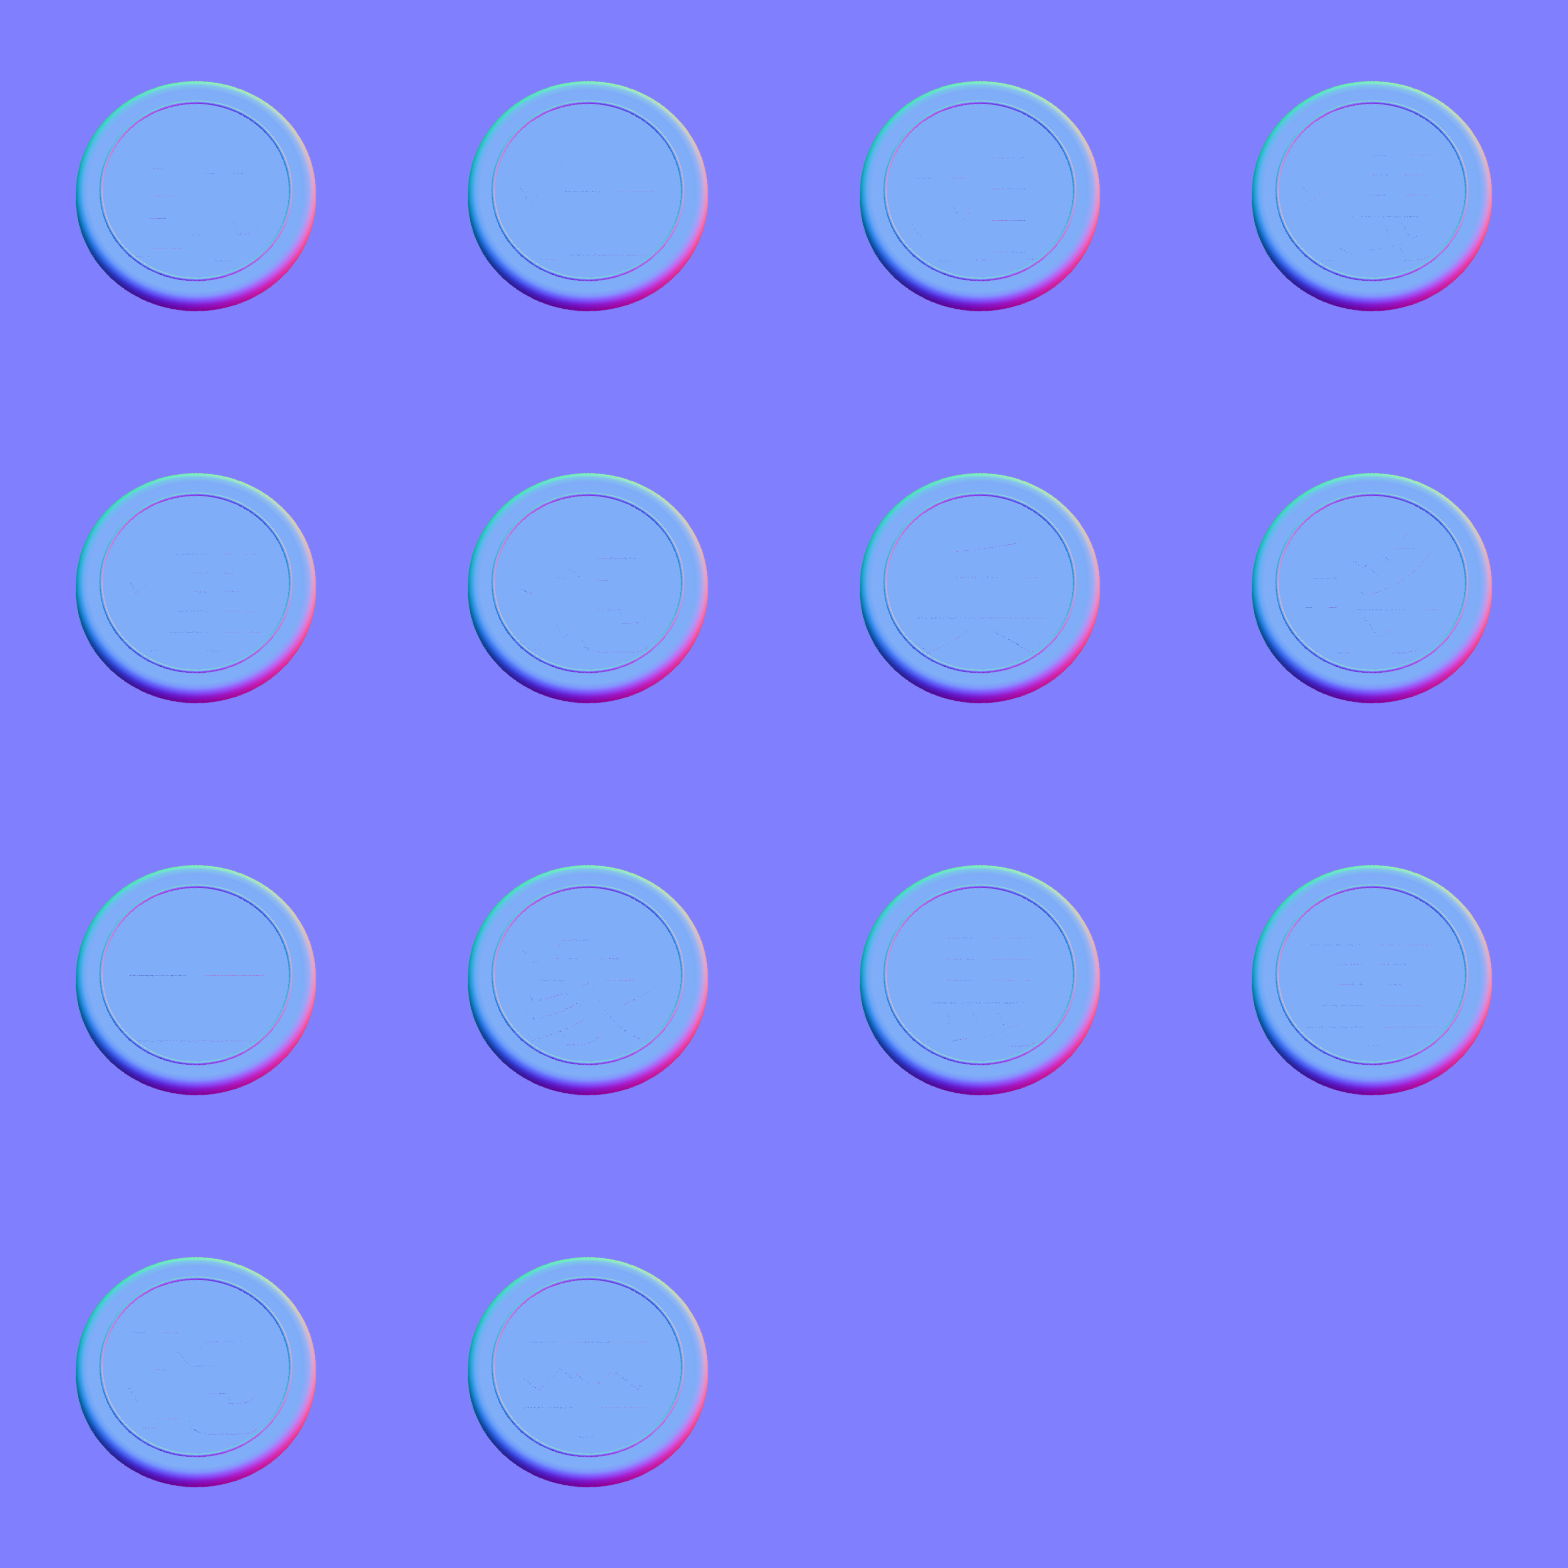
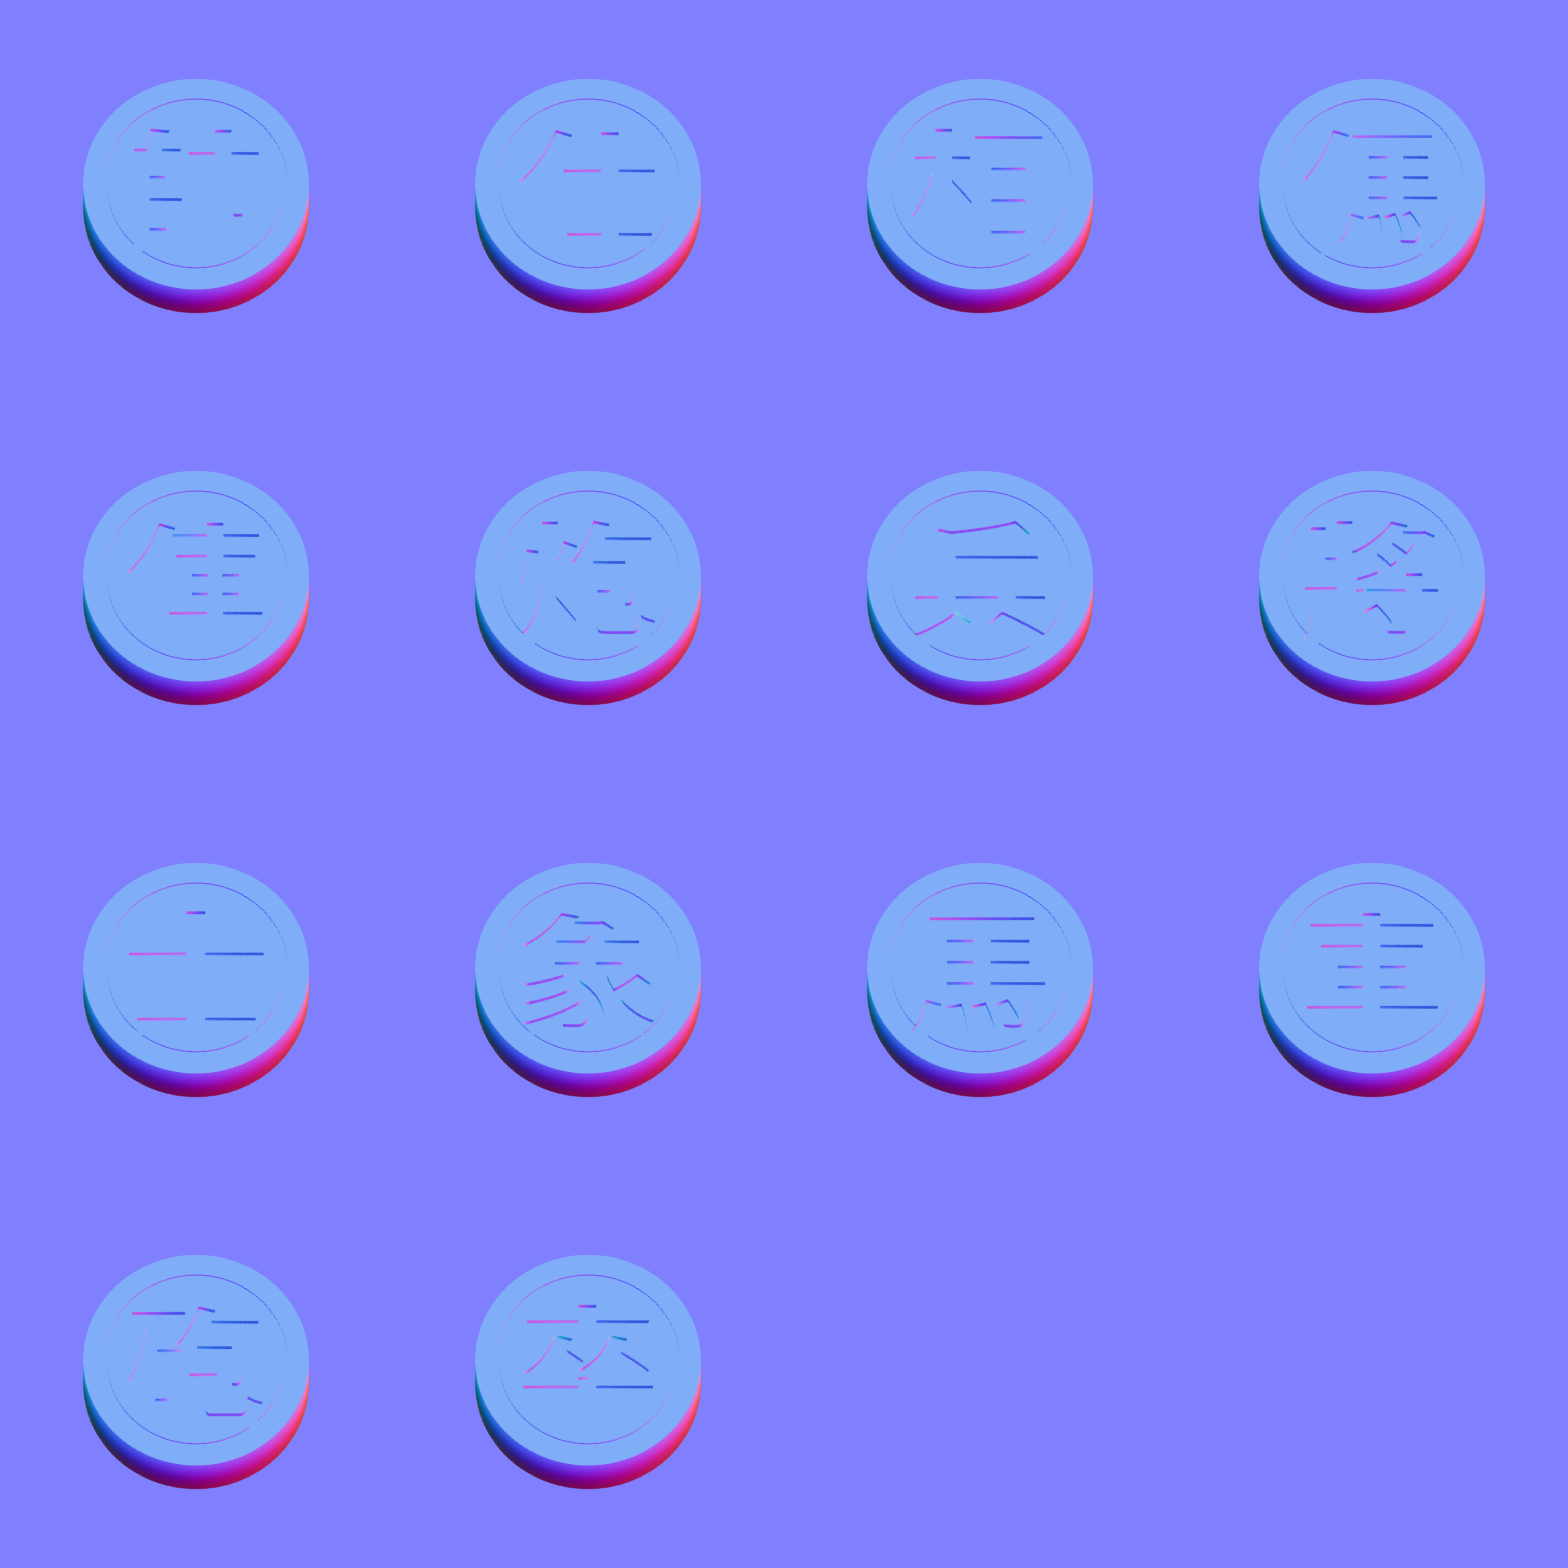
fix(xiangqi): deepen engraved pieces and add themed action buttons

diff --git a/games/xiangqi/src/scenes/XiangqiView.ts b/games/xiangqi/src/scenes/XiangqiView.ts
@@ -173,14 +173,19 @@ export class XiangqiView extends GameView<View, Options> {
         this.label('', { size: 24, color: '#cab79a' }).setStroke('#211a14', 2),
       ),
     };
-    const opts = { image: 'button', size: 28 };
+    const slice: [number, number, number, number] = [80, 80, 80, 80];
+    const opts = { image: 'button-draw', size: 28, slice };
     this.buttons = {
       draw: this.button('Xin hoà', () => this.send('offer-draw'), opts),
       decline: this.button('Từ chối', () => this.send('decline-draw'), opts),
-      resign: this.button('Đầu hàng', () => this.resign(), opts),
+      resign: this.button('Đầu hàng', () => this.resign(), { ...opts, image: 'button-resign' }),
       result: this.button('Kết quả', () => this.showPanel(false), opts),
       effects: this.button('Hiệu ứng: Bật', () => this.toggleEffects(), { size: 24 }),
     };
+    for (const button of [this.buttons.draw, this.buttons.decline, this.buttons.result]) {
+      button.label.setColor('#5c2d12').setStroke('#efe2c4', 1);
+    }
+    this.buttons.resign.label.setColor('#f6e8cd').setStroke('#451510', 2);
     this.buttons.effects.label.setColor('#cab79a').setStroke('#211a14', 2);
     const close = this.button(
       'Xem bàn cờ',
@@ -190,6 +195,7 @@ export class XiangqiView extends GameView<View, Options> {
       },
       opts,
     );
+    close.label.setColor('#5c2d12').setStroke('#efe2c4', 1);
     this.panel = new ResultPanel(this, close, DEPTH.panel);
     this.makeDustTexture();
   }

diff --git a/games/xiangqi/src/scenes/theme.ts b/games/xiangqi/src/scenes/theme.ts
@@ -1,11 +1,11 @@
 /**
- * Look and words shared by the scenes. Piece images are renders (colored characters and all):
+ * Look and words shared by the scenes. Piece images are renders with recessed colored glyphs:
  * assets/pieces.webp + pieces.normal.webp, the disc centered, DISC of the frame wide.
  */
 import type { EndReason, Kind, Side } from '../game/model.js';
 
-/** The disc's width as a share of its image (the rest is room for its bevel and animations). */
-export const DISC = 0.625;
+/** The sharp disc's diameter (1.88) as a share of the orthographic canvas width (3.2). */
+export const DISC = 0.5875;
 
 /**
  * assets/board.webp (generated, sources/prompts.json): a 900 × 1000 design rectangle with
@@ -20,8 +20,8 @@ export const BOARD = {
   y0: 77,
   dx: 94,
   dy: 94,
-  lift: 0.048,
-  disc: 0.96,
+  lift: 0.1,
+  disc: 0.9,
 };
 
 /** Hover slightly warms the ivory already baked into the material. */

diff --git a/games/xiangqi/sources/render_pieces.py b/games/xiangqi/sources/render_pieces.py
@@ -9,6 +9,7 @@ import os
 import sys
 
 import bpy
+import bmesh
 
 sys.path.insert(0, str(Path(__file__).resolve().parents[3] / 'tools' / 'blender'))
 from psc_bake import atlas, lathe, material, render, setup
@@ -23,7 +24,7 @@ FONT = Path(os.environ.get('PSC_XIANGQI_FONT', '/usr/share/fonts/opentype/noto/N
 
 
 def glyph(character, font, mat, z, extrusion):
-    curve = bpy.data.curves.new('Colored character inlay', 'FONT')
+    curve = bpy.data.curves.new('Engraving cutter', 'FONT')
     curve.body, curve.font = character, font
     curve.align_x, curve.align_y = 'CENTER', 'CENTER'
     curve.size, curve.extrude, curve.resolution_u = 1.1, extrusion, 8
@@ -38,6 +39,52 @@ def glyph(character, font, mat, z, extrusion):
     return obj
 
 
+def annulus(name, inner, outer, bottom, top, mat, segments=128):
+    profile = ((bottom, inner), (bottom, outer), (top, outer), (top, inner))
+    vertices = [(r * math.cos(i * math.tau / segments), r * math.sin(i * math.tau / segments), z)
+                for z, r in profile for i in range(segments)]
+    faces = []
+    for ring in range(4):
+        next_ring = (ring + 1) % 4
+        for i in range(segments):
+            j = (i + 1) % segments
+            faces.append((ring * segments + i, ring * segments + j,
+                          next_ring * segments + j, next_ring * segments + i))
+    mesh = bpy.data.meshes.new(name)
+    mesh.from_pydata(vertices, [], faces)
+    mesh.update()
+    obj = bpy.data.objects.new(name, mesh)
+    bpy.context.collection.objects.link(obj)
+    obj.data.materials.append(mat)
+    for i, polygon in enumerate(mesh.polygons):
+        polygon.use_smooth = (i // segments) % 2 == 1
+    return obj
+
+
+def engrave(body, cutter):
+    bpy.ops.object.select_all(action='DESELECT')
+    cutter.select_set(True)
+    bpy.context.view_layer.objects.active = cutter
+    if cutter.type != 'MESH':
+        bpy.ops.object.convert(target='MESH')
+        cutter = bpy.context.object
+    bpy.ops.object.transform_apply(location=False, rotation=False, scale=True)
+    # CJK glyphs contain touching/overlapping strokes: weld and orient the solid cutter,
+    # then use Exact's self-intersection support rather than leaving inverted cut faces.
+    mesh = bmesh.new()
+    mesh.from_mesh(cutter.data)
+    bmesh.ops.remove_doubles(mesh, verts=list(mesh.verts), dist=1e-5)
+    bmesh.ops.recalc_face_normals(mesh, faces=list(mesh.faces))
+    mesh.to_mesh(cutter.data)
+    mesh.free()
+    mod = body.modifiers.new('Recessed engraving', 'BOOLEAN')
+    mod.operation, mod.solver, mod.object = 'DIFFERENCE', 'EXACT', cutter
+    mod.use_self = True
+    bpy.context.view_layer.objects.active = body
+    bpy.ops.object.modifier_apply(modifier=mod.name)
+    bpy.data.objects.remove(cutter, do_unlink=True)
+
+
 if not SELECTED or 'pieces' in SELECTED or any(name in FRAMES for name in SELECTED):
     if not FONT.is_file():
         raise FileNotFoundError('Install Noto Sans CJK Bold or set PSC_XIANGQI_FONT to a CJK font')
@@ -48,20 +95,18 @@ if not SELECTED or 'pieces' in SELECTED or any(name in FRAMES for name in SELECT
             if SELECTED and 'pieces' not in SELECTED and name not in SELECTED and all(
                     (OUT / f'{name}{suffix}.png').exists() for suffix in ('', '.normal')):
                 continue
-            setup((384, 384), 3.2, target=(0, 0, 0.13), camera=(0, -4.5, 12), samples=32)
+            setup((384, 384), 3.2, target=(0, 0, 0.275), camera=(0, -4.5, 12), samples=32)
             ivory = material('Warm ivory satin stone', (0.78, 0.64, 0.36), 0.48, 0.08)
             ink = material('Red cinnabar' if side == 'red' else 'Charcoal ink',
                            (0.48, 0.018, 0.012) if side == 'red' else (0.025, 0.023, 0.021), 0.65, 0)
-            lathe('Bevelled ivory disc', [(0, 0.92), (0.025, 0.98), (0.06, 1),
-                         (0.19, 1), (0.235, 0.98), (0.255, 0.94), (0.25, 0.89)], ivory)
-            bpy.ops.mesh.primitive_torus_add(major_radius=0.79, minor_radius=0.014,
-                                            major_segments=96, minor_segments=12,
-                                            location=(0, 0, 0.252))
-            ring = bpy.context.object
-            ring.name = 'Inset colored ring'
-            ring.data.materials.append(ink)
-            # A thin colored inlay avoids Boolean artifacts in overlapping CJK strokes.
-            glyph(character, font, ink, 0.252, 0.001)
+            body = lathe('Thick ivory disc with sharp rims', [(0, 0.94), (0.55, 0.94)],
+                         ivory, segments=128)
+            engrave(body, glyph(character, font, ivory, 0.625, 0.14))
+            engrave(body, annulus('Ring groove cutter', 0.742, 0.764, 0.525, 0.65, ivory))
+            # The color is entirely below the face: ivory walls and real cavity normals
+            # catch the dynamic light while the flat ink floor remains easy to read.
+            lathe('Ink at the bottom of the lettering', [(0.486, 0.87), (0.487, 0.87)], ink)
+            annulus('Ink at the bottom of the ring', 0.742, 0.764, 0.526, 0.527, ink)
             render(name, OUT, OUT, normal=True, webp=False)
     atlas('pieces', FRAMES, ROOT / 'assets', OUT)
 
@@ -73,7 +118,7 @@ if not SELECTED or 'piece-shadow' in SELECTED:
     pixels = image.load()
     for y in range(size):
         for x in range(size):
-            radius = math.hypot((x - size / 2) / 122, (y - size / 2 - 7) / 110)
+            radius = math.hypot((x - size / 2) / 115, (y - size / 2 - 16) / 104)
             alpha = int(65 * max(0, min(1, (1.08 - radius) / 0.18)))
             pixels[x, y] = (38, 25, 12, alpha)
     image.save(ROOT / 'assets' / 'piece-shadow.webp', lossless=True, method=6)

diff --git a/games/xiangqi/sources/render_buttons.py b/games/xiangqi/sources/render_buttons.py
@@ -1,0 +1,49 @@
+"""Bake parchment and red-lacquer xiangqi buttons with walnut frames for nine-slice UI.
+
+Run: npm run blender -- xiangqi button-draw button-resign.
+Text stays in Phaser so offer/accept draw and surrender confirmation share the same assets.
+"""
+from pathlib import Path
+import sys
+
+import bpy
+
+sys.path.insert(0, str(Path(__file__).resolve().parents[3] / 'tools' / 'blender'))
+from psc_bake import cube, material, render, setup, wood
+
+ROOT = Path(__file__).resolve().parents[1]
+OUT = ROOT.parents[1] / '.blender' / 'xiangqi'
+SELECTED = sys.argv[sys.argv.index('--') + 1:] if '--' in sys.argv else []
+
+for name in ('button-draw', 'button-resign'):
+    if SELECTED and name not in SELECTED:
+        continue
+    setup((640, 200), 4.16, samples=32)
+    frame = wood('Walnut button frame', (0.065, 0.023, 0.011), (0.21, 0.078, 0.026))
+    brass = material('Aged brass hairline', (0.49, 0.29, 0.08), 0.65, 0)
+    if name == 'button-draw':
+        face = material('Warm parchment', (0.78, 0.68, 0.48), 0.9, 0)
+        shader = face.node_tree.nodes.get('Principled BSDF')
+        shader.inputs['Specular IOR Level'].default_value = 0.08
+        nodes, links = face.node_tree.nodes, face.node_tree.links
+        grain = nodes.new('ShaderNodeTexNoise')
+        grain.inputs['Scale'].default_value = 90
+        grain.inputs['Detail'].default_value = 2
+        bump = nodes.new('ShaderNodeBump')
+        bump.inputs['Strength'].default_value = 0.15
+        bump.inputs['Distance'].default_value = 0.005
+        links.new(grain.outputs['Fac'], bump.inputs['Height'])
+        links.new(bump.outputs['Normal'], shader.inputs['Normal'])
+    else:
+        face = material('Deep cinnabar lacquer', (0.23, 0.017, 0.012), 0.55, 0.09)
+    cube('Walnut frame', (3.96, 1.13, 0.12), (0, 0, 0), frame, 0.035, 2)
+    cube('Fine brass inset', (3.82, 0.99, 0.022), (0, 0, 0.063), brass, 0.025, 2)
+    cube('Inset face', (3.77, 0.94, 0.032), (0, 0, 0.08), face, 0.02, 2)
+    # Square fret corners echo the board and paper scroll; the nine-slice preserves them.
+    for sx in (-1, 1):
+        for sy in (-1, 1):
+            cube('Fret horizontal', (0.17, 0.012, 0.008),
+                 (sx * 1.71, sy * 0.375, 0.1), brass, 0)
+            cube('Fret vertical', (0.012, 0.13, 0.008),
+                 (sx * 1.79, sy * 0.315, 0.1), brass, 0)
+    render(name, ROOT / 'assets', OUT)

diff --git a/games/xiangqi/README.md b/games/xiangqi/README.md
@@ -31,17 +31,23 @@ Kiểm tra bằng `npm run check`. Hướng dẫn SDK và Dev Console:
 
 Hình bàn gỗ óc chó viền nổi mỏng và cảnh đình lúc hoàng hôn sinh bằng Image Gen từ prompt
 trong `sources/prompts.json`; đường bàn vẽ theo `src/scenes/theme.ts`.
-Quân cờ là model đĩa đá có cạnh vát, vòng màu và chữ Hán tô màu, dựng bằng Blender.
+Quân cờ là model đĩa đá trắng ngà dựng bằng Blender, thân dày và mép thẳng không bo tròn.
+Bán kính giảm nhẹ để các quân đứng cạnh nhau thoáng hơn. Chữ Hán và vòng viền được khoét
+lõm vào mặt quân; màu Đỏ/Đen nằm ở đáy rãnh, còn thành rãnh giữ màu ngà.
 Màu trắng ngà nằm ngay trong vật liệu, giữ nguyên khi di chuyển, vỡ quân, chiếu tướng và trên
 bảng kết quả. Cặp atlas `pieces.webp`/`pieces.normal.webp` cùng `pieces.json` chứa 14 quân
 Đỏ/Đen; normal map raw, lossless và đục dùng đèn mềm từ trên trái cùng đèn đi theo con trỏ
 như Cờ Vua. Tất cả bóng tiếp xúc nằm ở layer riêng dưới toàn bộ quân, kể cả khi nhấc quân
-hoặc ăn quân. Chữ trên sông kết xuất bằng Blender; nút dùng lại từ Tiến Lên.
+hoặc ăn quân. Chữ trên sông kết xuất bằng Blender. Nút xin hoà dùng mặt giấy ngà, nút đầu
+hàng dùng sơn đỏ sẫm; cả hai có khung gỗ óc chó, viền đồng và hoa văn góc riêng. Chữ trên
+nút vẫn do giao diện vẽ để đổi theo trạng thái xin hoà, xác nhận hoặc kết thúc ván.
 
-Tái tạo quân và bóng bằng `npm run blender -- xiangqi`; chỉ bake atlas bằng
-`npm run blender -- xiangqi pieces`. Cần phông Noto Sans CJK Bold (SIL Open Font License),
+Tái tạo quân, bóng và nút bằng `npm run blender -- xiangqi`; chỉ bake atlas bằng
+`npm run blender -- xiangqi pieces`, hoặc hai nút bằng
+`npm run blender -- xiangqi button-draw button-resign`.
+Cần phông Noto Sans CJK Bold (SIL Open Font License),
 mặc định ở `/usr/share/fonts/opentype/noto/NotoSansCJK-Bold.ttc`; có thể chọn phông CJK khác
-bằng `PSC_XIANGQI_FONT`. Script nằm ở `sources/render_pieces.py`, PNG trung gian ở
+bằng `PSC_XIANGQI_FONT`. Script nằm ở `sources/render_pieces.py` và `sources/render_buttons.py`, PNG trung gian ở
 `.blender/xiangqi/`; xem [hướng dẫn Blender](../../docs/making-a-game.md#kết-xuất-blender-và-normal-map).
 Tiếng di chuyển, vỡ quân và nhạc thắng tổng hợp bằng code.
 Thông báo chiếu tướng/chiếu bí theo lối tranh thủy mặc: cuộn giấy mở ra giữa hai trục gỗ, vệt
